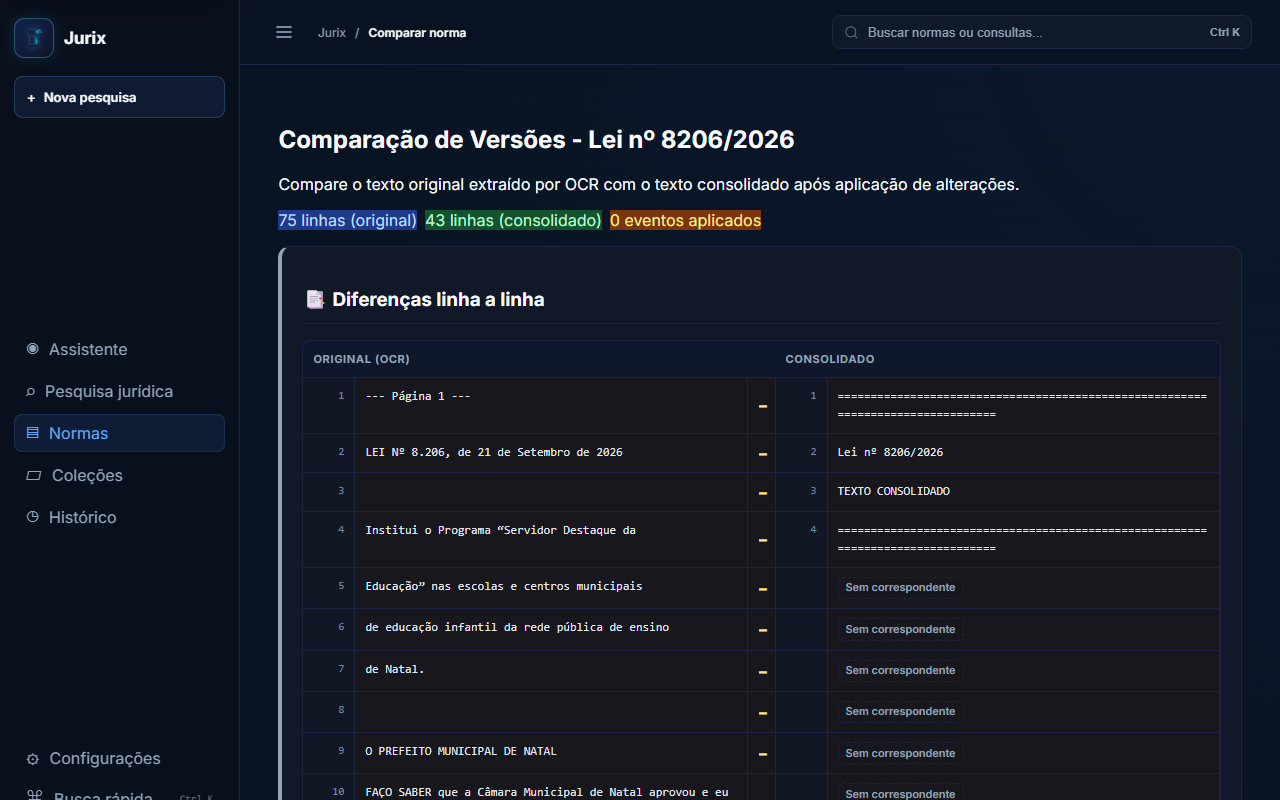
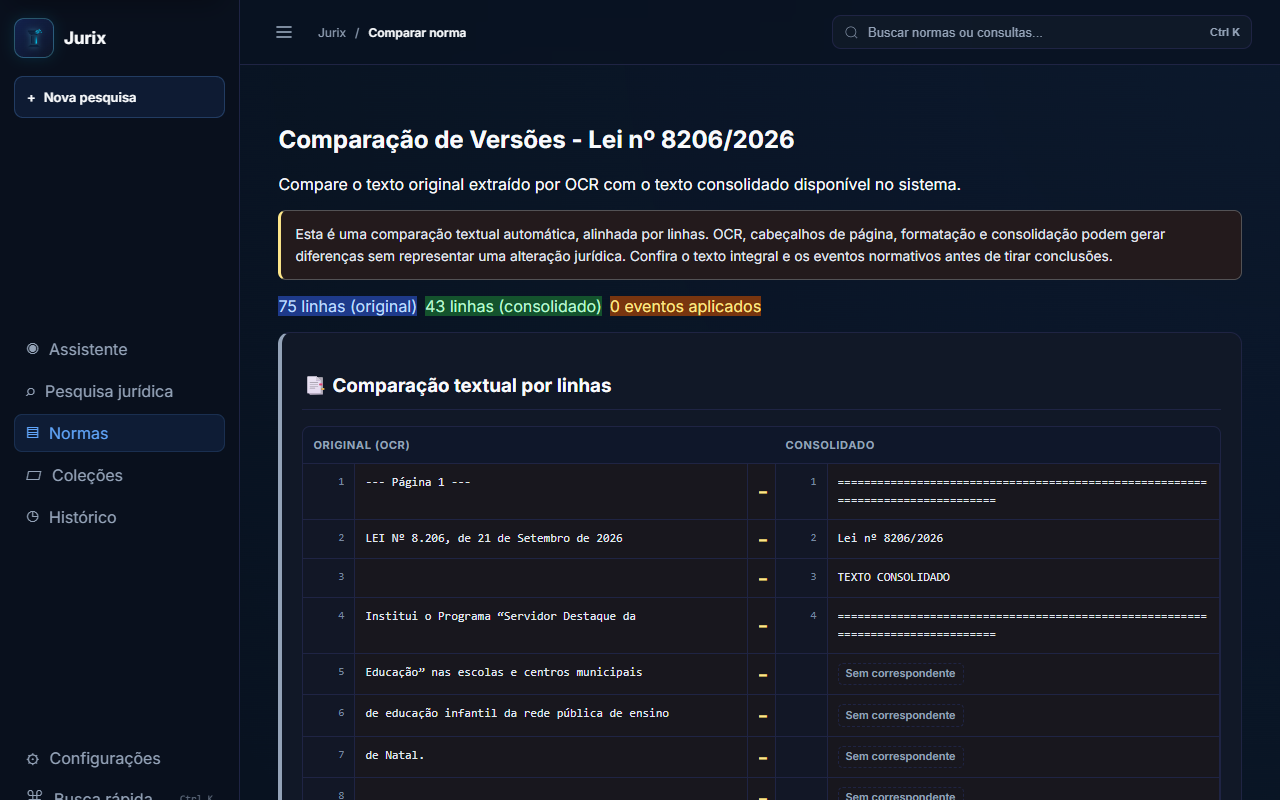
ui(normas): clarify comparison method limitations

diff --git a/src/apps/legislation/templates/legislation/norma_compare.html b/src/apps/legislation/templates/legislation/norma_compare.html
@@ -6,14 +6,17 @@
 
 {% block extra_css %}
 {% load static %}
-<link rel="stylesheet" href="{% static 'css/jurix-legacy-shell.css' %}?v=20260929-compare-readable-mobile1">
+<link rel="stylesheet" href="{% static 'css/jurix-legacy-shell.css' %}?v=20260929-compare-method-note1">
 {% endblock %}
 
 {% block content %}
 <div class="card">
     <h2>Comparação de Versões - {{ norma.get_tipo_display_name }} nº {{ norma.numero }}/{{ norma.ano }}</h2>
     <p class="compare-intro">
-        Compare o texto original extraído por OCR com o texto consolidado após aplicação de alterações.
+        Compare o texto original extraído por OCR com o texto consolidado disponível no sistema.
+    </p>
+    <p class="compare-method-note" role="note">
+        Esta é uma comparação textual automática, alinhada por linhas. OCR, cabeçalhos de página, formatação e consolidação podem gerar diferenças sem representar uma alteração jurídica. Confira o texto integral e os eventos normativos antes de tirar conclusões.
     </p>
     
     <div class="compare-summary">
@@ -25,7 +28,7 @@
 
 <div class="compare-container" aria-label="Comparação linha a linha das versões">
     <div class="compare-panel original-text">
-        <h3>📑 Diferenças linha a linha</h3>
+        <h3>📑 Comparação textual por linhas</h3>
         <div class="compare-diff" role="table" aria-label="Diferenças entre texto original e consolidado">
             <div class="compare-diff-header" role="row">
                 <span role="columnheader">Original (OCR)</span>

diff --git a/src/apps/core/static/css/jurix-legacy-shell.css b/src/apps/core/static/css/jurix-legacy-shell.css
@@ -22,6 +22,7 @@ footer p { margin-bottom: var(--jurix-space-1); }
 .compare-summary .badge-info { color: var(--figma-blue-soft); background: var(--figma-blue-deep); }
 .compare-summary .badge-success { color: var(--figma-green-soft); background: var(--figma-green-deep); }
 .compare-summary .badge-warning { color: var(--figma-amber-soft); background: var(--figma-amber-deep); }
+.compare-method-note { margin: 12px 0 0; padding: 12px 14px; border: 1px solid color-mix(in srgb, var(--figma-amber-soft) 24%, var(--figma-border)); border-left: 3px solid var(--figma-amber-soft); border-radius: var(--jurix-radius-sm); background: color-mix(in srgb, var(--figma-amber-deep) 24%, var(--figma-bg-root)); color: var(--figma-text-body); font-size: .86rem; line-height: 1.6; }
 .compare-panel pre { max-width: 100%; margin: 0; white-space: pre-wrap; overflow-wrap: anywhere; overflow-x: auto; color: inherit; background: var(--figma-bg-root); border: 1px solid var(--figma-border); border-radius: var(--jurix-radius-sm); padding: 14px; }
 .compare-diff-row code { background: transparent !important; color: var(--figma-blue-soft); }
 .compare-diff { display: grid; gap: 1px; overflow-x: auto; border: 1px solid var(--figma-border); border-radius: var(--jurix-radius-sm); background: var(--figma-border); }

diff --git a/FRONTEND_LOG.md b/FRONTEND_LOG.md
@@ -1963,3 +1963,43 @@ Regressions: None observed.
 Next action: Continue the phase-E cross-route audit through comparison, device
 tree, workspace forms and route error states; inspect keyboard and recovery
 paths for concrete user-visible failures.
+
+## Cycle 50 — 2026-09-29
+
+Area: Norm version comparison and legal-device tree.
+
+Goal: Audit whether comparison output communicates its evidentiary limits and
+whether the hierarchy remains operable with a keyboard.
+
+Observed problems: On a real norm with OCR page markers, the comparison showed
+many apparent row changes and unmatched lines. The screen called this “Diferenças
+linha a linha” without explaining that the alignment is automatic and textual;
+users could mistake OCR/layout noise for a substantive legal amendment.
+
+Changes made: Renamed the section to “Comparação textual por linhas” and added
+a visible, accessible method note explaining OCR/layout limitations and asking
+the reader to verify the full text and normative events. No backend comparison
+logic or legal inference was changed.
+
+Browser validation: The note was present in the live accessibility tree on
+`/normas/3/compare/`. On `/normas/3/tree/`, pressing Enter on “Recolher Art. 2º”
+collapsed its child devices, updated the control label/state and retained focus.
+
+Tests: Full `npm test` passed, including 19 real-Chromium scenarios, 20
+workspace/norm structural contracts, 15 streaming/persistence checks, composer
+lifecycle and contrast checks. The comparison-specific structural check passed.
+`git diff --check` passed.
+
+Console: Route capture completed 30 views with zero needing review.
+
+Responsive validation: Capture covered 390×844, 1280×800 and 1440×900; no
+horizontal overflow or navigation failures were reported.
+
+Visual score: Comparison methodology is now stated before the diff, reducing
+the chance that textual mismatches are presented as legal conclusions.
+
+Regressions: None observed. A genuinely semantic/legal diff would require
+backend comparison work and remains outside this frontend-only cycle.
+
+Next action: Continue through empty/error routes and workspace forms, testing
+submission, validation recovery, focus return and mobile layout in the live app.
